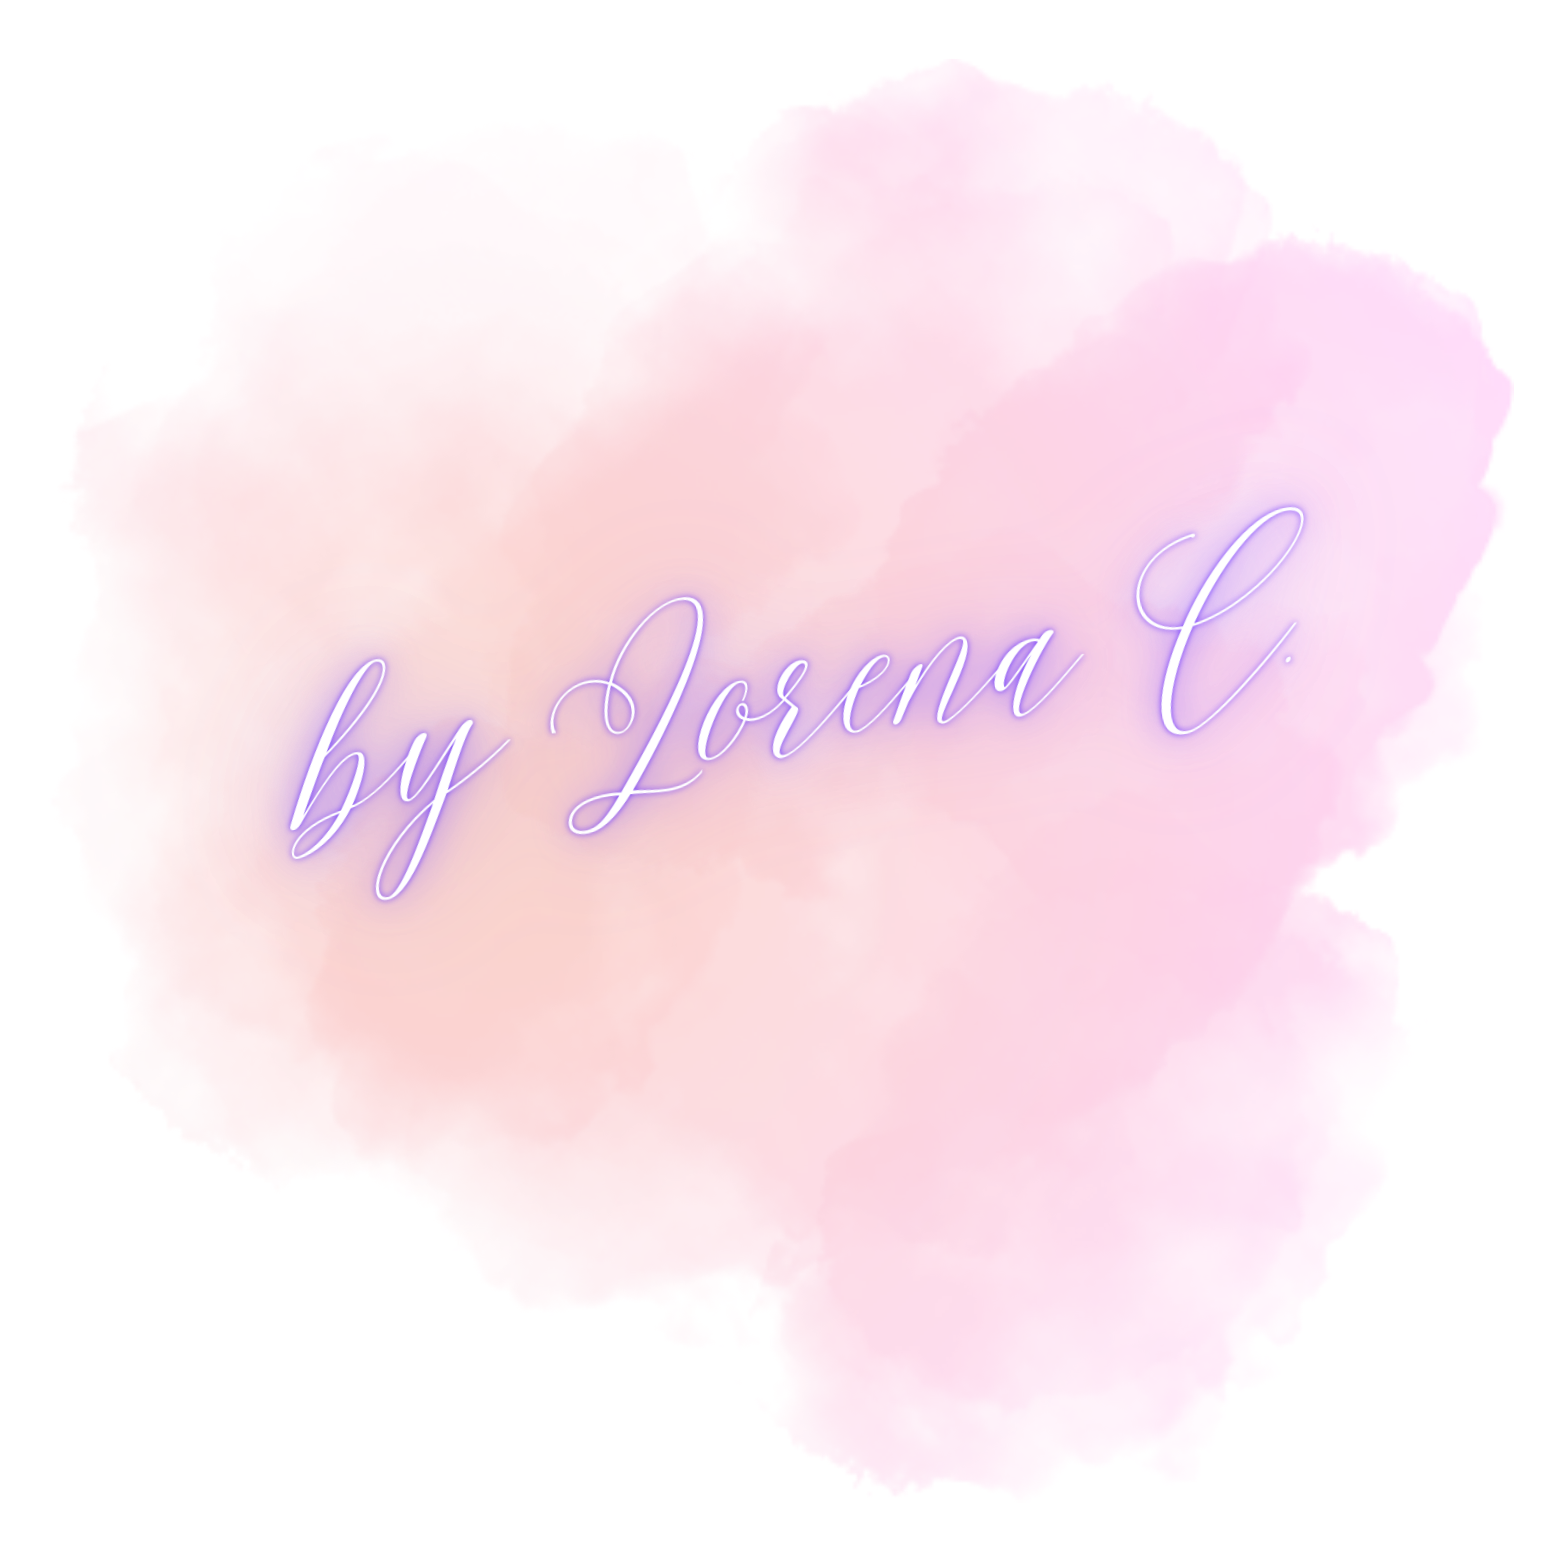
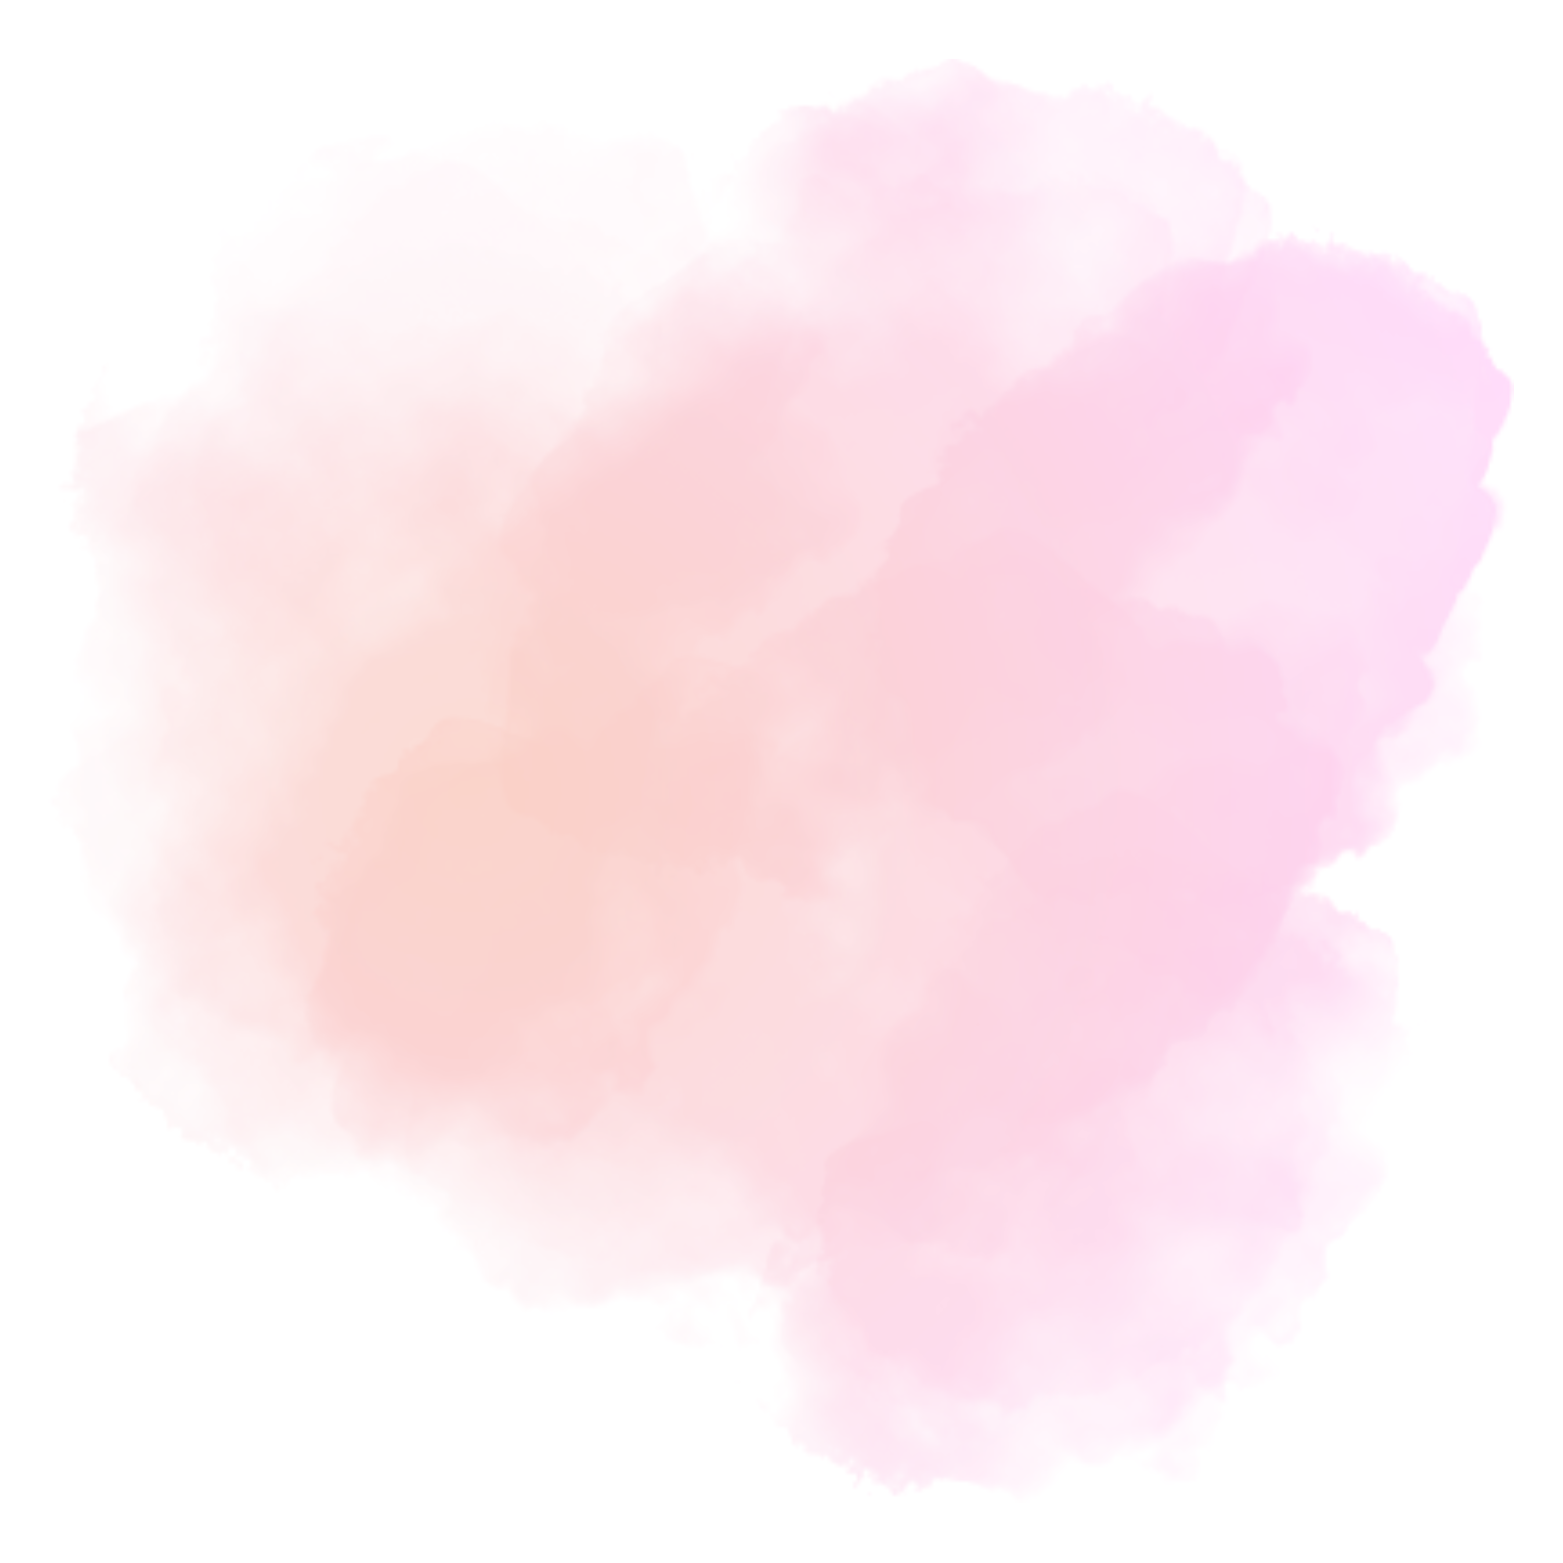
Home page completed

Changed region(s): [[0.3378, 0.3685, 0.6756, 0.5528], [0.1843, 0.3992, 0.3378, 0.5835], [0.7063, 0.3071, 0.8292, 0.4914]]

diff --git a/src/App.css b/src/App.css
@@ -53,8 +53,30 @@ body {
   padding-top: 15%;
   white-space: nowrap;
   overflow: hidden;
-  width: 30em;
+  width: 20em;
   animation: type 4s steps(60, end);
+}
+
+.nameH {
+  text-decoration-color: aqua;
+  margin-top: 0.625rem;
+  margin-bottom: 0.625rem;
+  text-align: center;
+  font-family: Caveat, cursive;
+  font-weight: 400;
+  font-size: 4rem;
+  transform: rotate(-6deg);
+  position: absolute;
+  margin-top: 25%;
+  text-decoration: underline;
+  background-clip: text;
+  -webkit-text-fill-color: transparent;
+  background-image: linear-gradient(
+    92deg,
+    rgb(48, 207, 208) 10%,
+    rgb(113, 46, 195) 50%,
+    rgb(219, 66, 198) 100%
+  );
 }
 
 .placeH {
@@ -62,14 +84,40 @@ body {
   z-index: 1;
   position: absolute;
   padding-top: 35%;
-  font-size: larger;
-  font-weight: 100;
+  font-size: medium;
+  font-weight: 200;
 }
 
 .logoH {
   padding-top: 5%;
   width: 50%;
   height: 60%;
+}
+
+.buttonH {
+  position: absolute;
+  margin-top: 40%;
+  display: inline-flex;
+  align-items: center;
+  width: auto;
+  max-width: 100%;
+  height: 3.5rem;
+  padding-left: 2.25rem;
+  padding-right: 2.25rem;
+  cursor: pointer;
+  font-weight: 600;
+  font-size: 1.2rem;
+  border-radius: 50px;
+  box-shadow: rgba(0, 0, 0, 0.2) 0px 6px 18px 0px;
+  transition: all 0.3s ease-in-out 0s;
+  color: rgb(255, 255, 255);
+  border: 2px solid rgba(48, 207, 209);
+  background-color: rgb(48, 207, 209);
+}
+.buttonH:hover {
+  background-color: transparent;
+  border: 2px solid rgba(48, 207, 209);
+  color: rgba(48, 207, 209);
 }
 
 @keyframes type {

diff --git a/src/Home.jsx b/src/Home.jsx
@@ -1,11 +1,15 @@
 import Logo from "./1.png";
-import React, { useEffect, useState } from "react";
+import React from "react";
 const Home = () => {
   return (
     <main className="home">
       <p className="roleH">full.stack.developer</p>
       <img className="logoH" src={Logo} alt="React Logo" />
+      <p className="nameH">by Lorena C.</p>
+      <hr />
+
       <p className="placeH">LONDON BASED</p>
+      <button className="buttonH">Get in touch</button>
     </main>
   );
 };

diff --git a/public/index.html b/public/index.html
@@ -31,6 +31,12 @@
       href="https://fonts.googleapis.com/css2?family=Josefin+Sans&display=swap"
       rel="stylesheet"
     />
+    <link rel="preconnect" href="https://fonts.googleapis.com" />
+    <link rel="preconnect" href="https://fonts.gstatic.com" crossorigin />
+    <link
+      href="https://fonts.googleapis.com/css2?family=Caveat&display=swap"
+      rel="stylesheet"
+    />
   </head>
   <body>
     <noscript>You need to enable JavaScript to run this app.</noscript>
